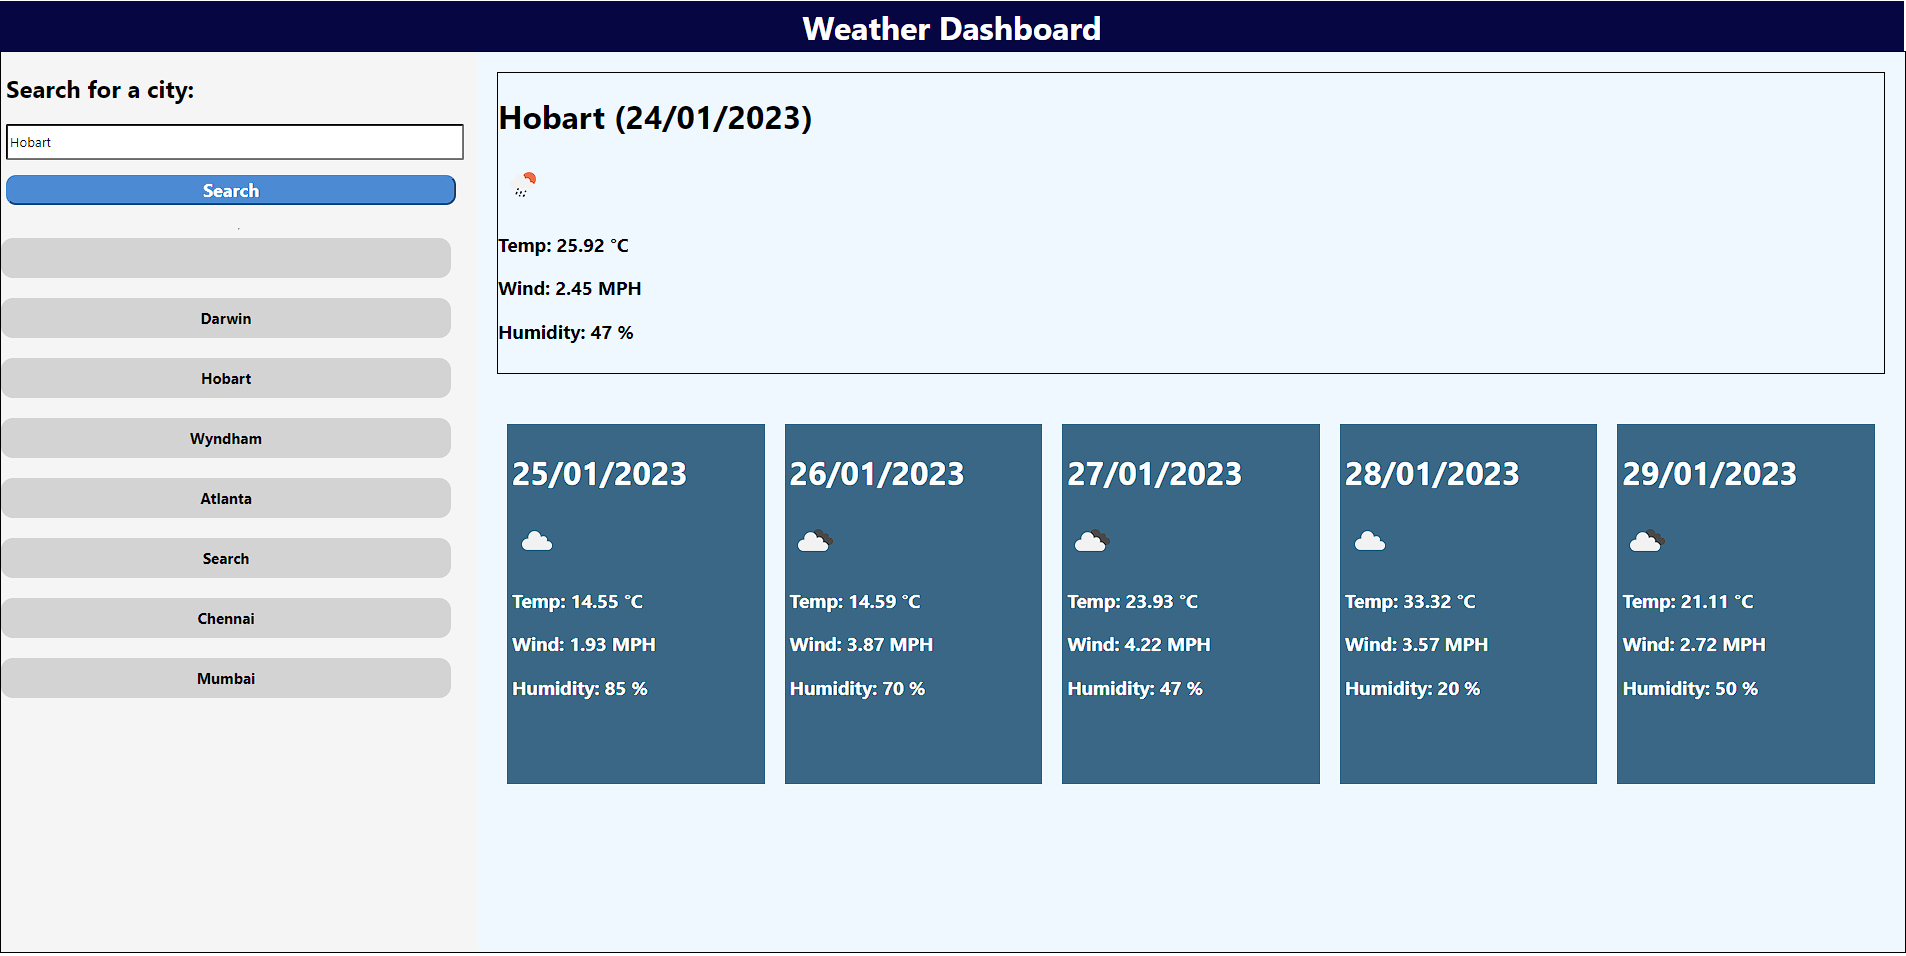
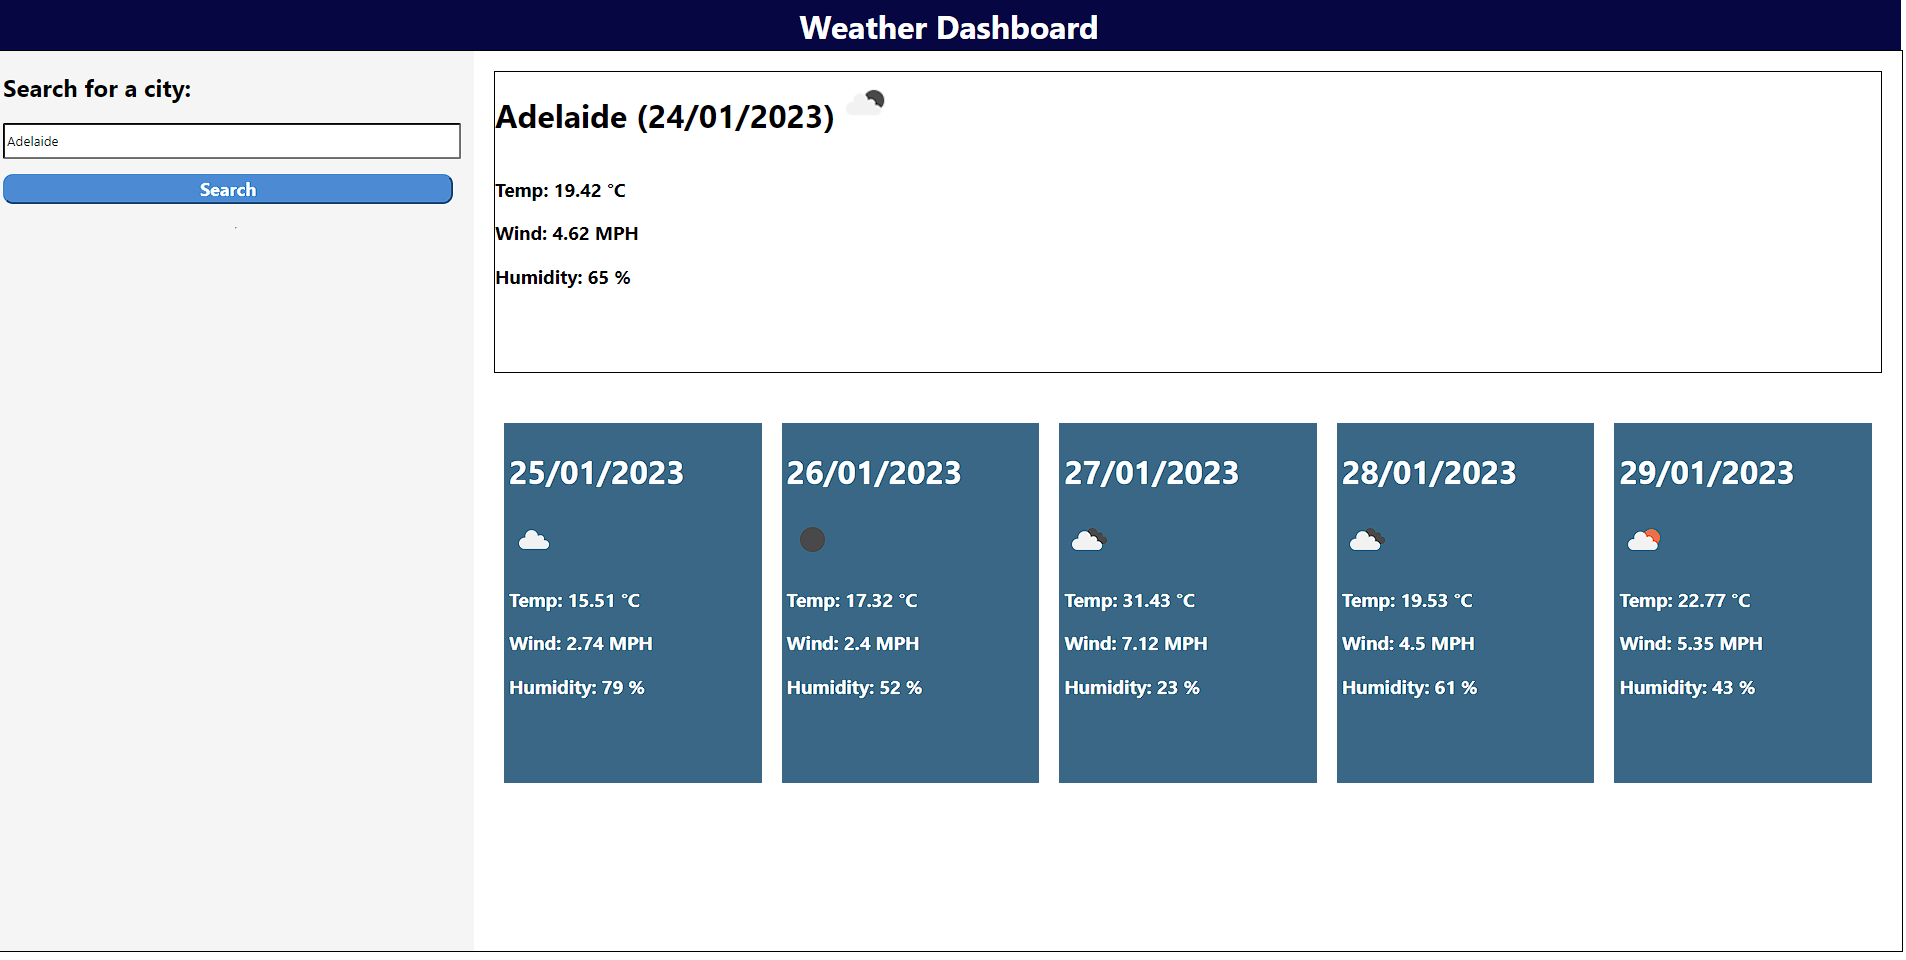
Fixed search history error null value in script.js

Changed region(s): [[0.0, 0.0, 1.0, 1.0], [0.4024, 0.6067, 0.4953, 0.728], [0.4024, 0.546, 0.4334, 0.5764]]

diff --git a/assets/script.js b/assets/script.js
@@ -11,8 +11,9 @@ function getApi() {
     var requestUrl = 'https://api.openweathermap.org/data/2.5/forecast?appid=e55ee97b6b016b9b14fab1caec587add&q='+ cityName + "&units=metric";
     fetch(requestUrl)
         .then((response) => response.json())
-        .then((data) => populateData(data));
-    storeHistoryLocal(cityName);
+        .then((data) => { populateData(data);
+            storeHistoryLocal(cityName);});
+    //storeHistoryLocal(cityName);
 }
 
 // Event listener for the Search button
@@ -49,12 +50,14 @@ function formatDate(oldDate) {
 
 // Store the cities searched in local storage
 function storeHistoryLocal(cityName) {
-    var citiesLocal = localStorage.getItem("City-History");
-    citiesLocal = citiesLocal ? JSON.parse(citiesLocal) : [];
+    var getcitiesLocal = localStorage.getItem("City-History");
+    var citiesLocal = getcitiesLocal ? JSON.parse(getcitiesLocal) : [];
+    //var citiesLocal = JSON.parse(getcitiesLocal);
     if(citiesLocal.length > 10) {
         localStorage.clear();
     }
     if(!citiesLocal.includes(cityName)) {
+        console.log(cityName);
         citiesLocal.push(cityName);
         localStorage.setItem("City-History", JSON.stringify(citiesLocal));
     }
@@ -64,6 +67,7 @@ function storeHistoryLocal(cityName) {
 function showHistoryLocal() {
     var citiesLocal = localStorage.getItem("City-History");
     citiesLocal = citiesLocal ? JSON.parse(citiesLocal) : [];
+    //citiesLocal = JSON.parse(citiesLocal);
     var numCities = citiesLocal.length;
     for(var i=0; i<numCities; i++) {
         let cityEl = document.createElement("button");
@@ -84,7 +88,7 @@ function showHistoryLocal() {
 }    
 
 
-
+// Display weather info when search history is clicked
 historySectionEl.addEventListener('click', function (event) {
     if(event.target.textContent !== "Search") {
         console.log(event.target.textContent);

diff --git a/assets/style.css b/assets/style.css
@@ -4,7 +4,6 @@
 
 * {
     font-family: 'Segoe UI', Tahoma, Geneva, Verdana, sans-serif;
-    /*color: rgb(3, 3, 41);*/
     
 }
 
@@ -39,8 +38,7 @@ header {
     background-color: whitesmoke;
     width: 25%;
     height: 900px;
-    
-    
+   
 }
 
 /* Formatting the search form */
@@ -96,7 +94,7 @@ form {
     flex-direction: column;
     width: 75%;
     height: 900px;
-    background-color: aliceblue;
+    background-color:white;
 }
 
 /* Formatting to display the current weather in selected city */
@@ -106,6 +104,12 @@ form {
     border-style: solid;
     border-color: black;
     margin: 20px;
+}
+
+#weather-pic {
+    display: flex;
+    flex-direction: row;
+    
 }
 
 /* Formatting for the five day forecast */

diff --git a/index.html b/index.html
@@ -37,8 +37,10 @@
         <div id="results-section">
             <!-- Right top section for current weather of a city -->
             <div id="city-weather-section">
+                <div id="weather-pic">
                 <h1 id="city-name"></h1>
-                <img id="weather-icon" width="50" height="50" alt="Weather picture"/>
+                <img id="weather-icon" width="60" height="60" alt="Weather picture"/>
+                </div>
                 <h3 id="city-temp-1"></h3>
                 <h3 id="city-wind-1"></h3>
                 <h3 id="city-humidity-1"></h3>
